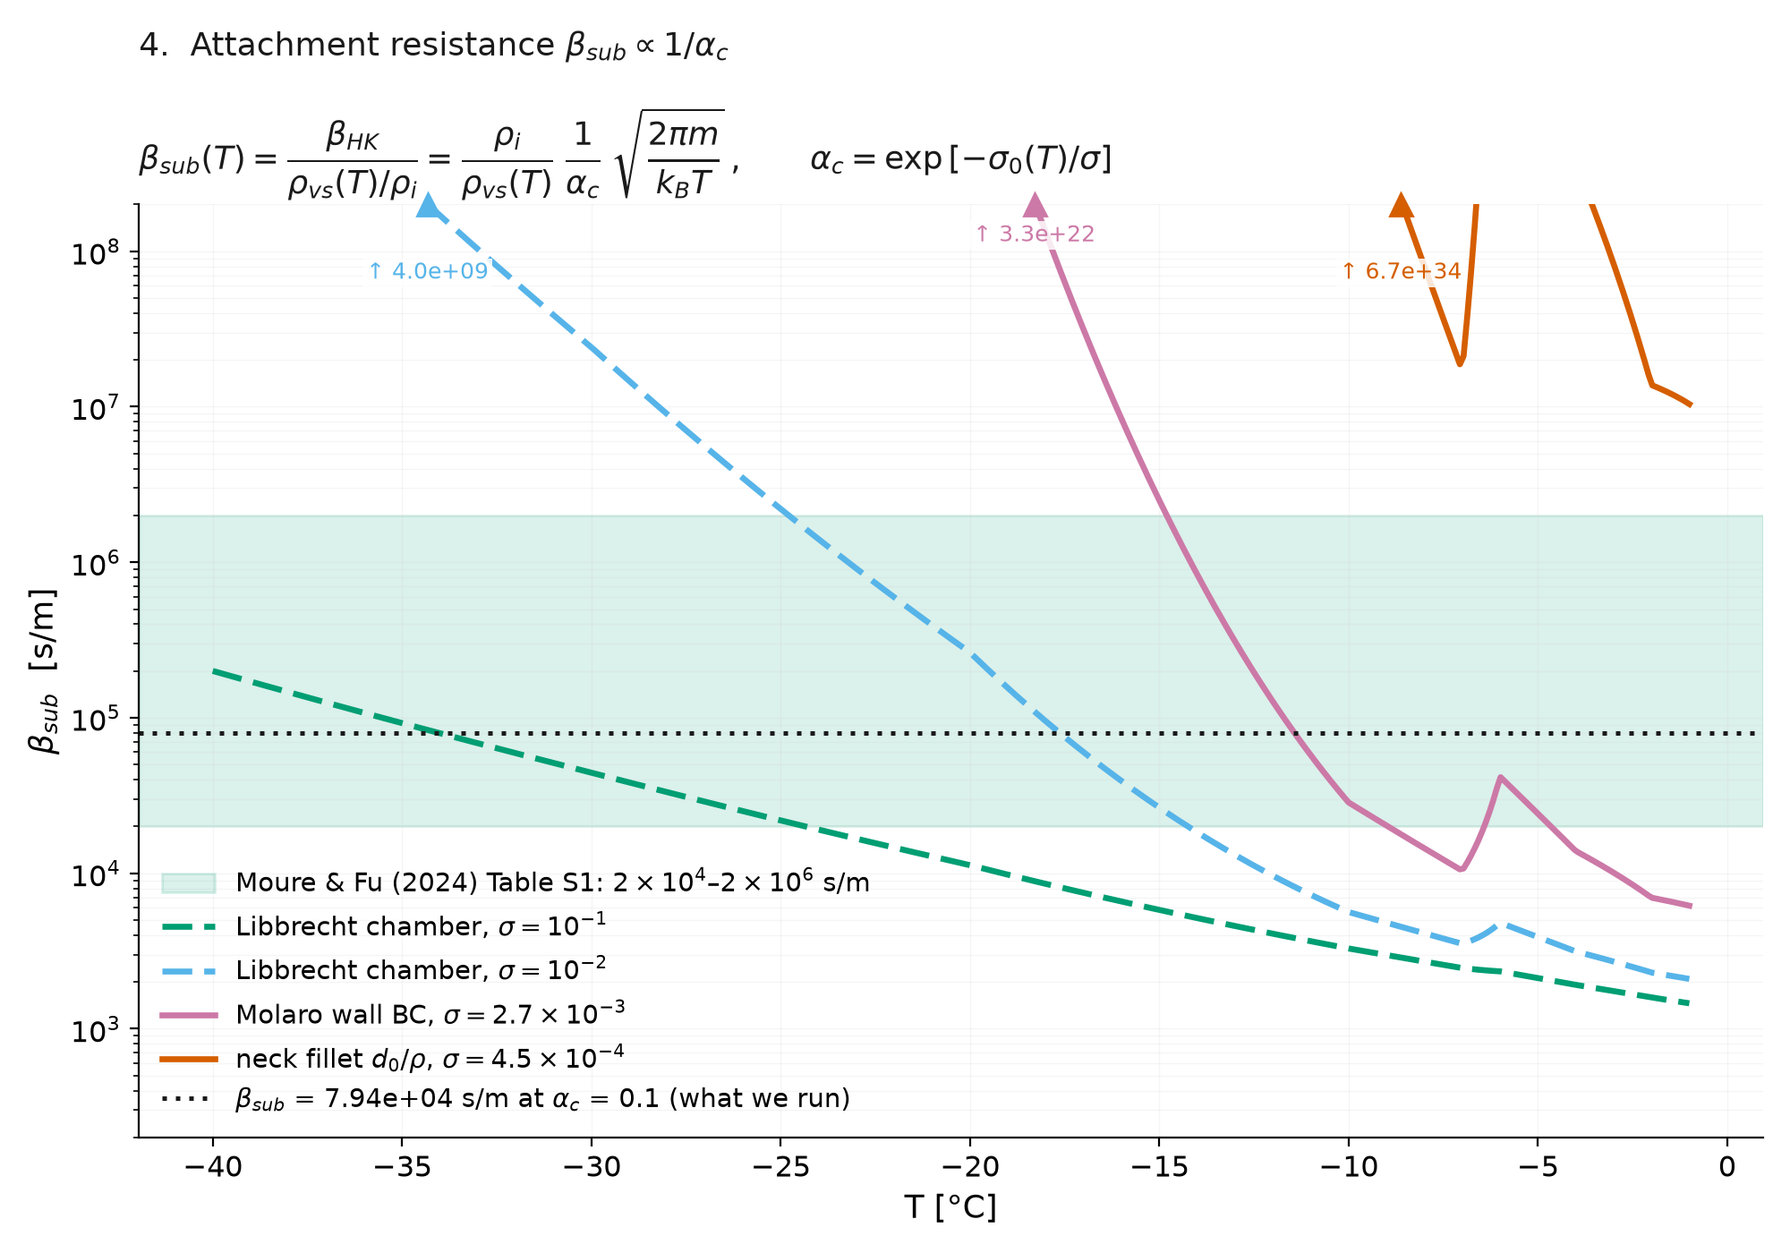
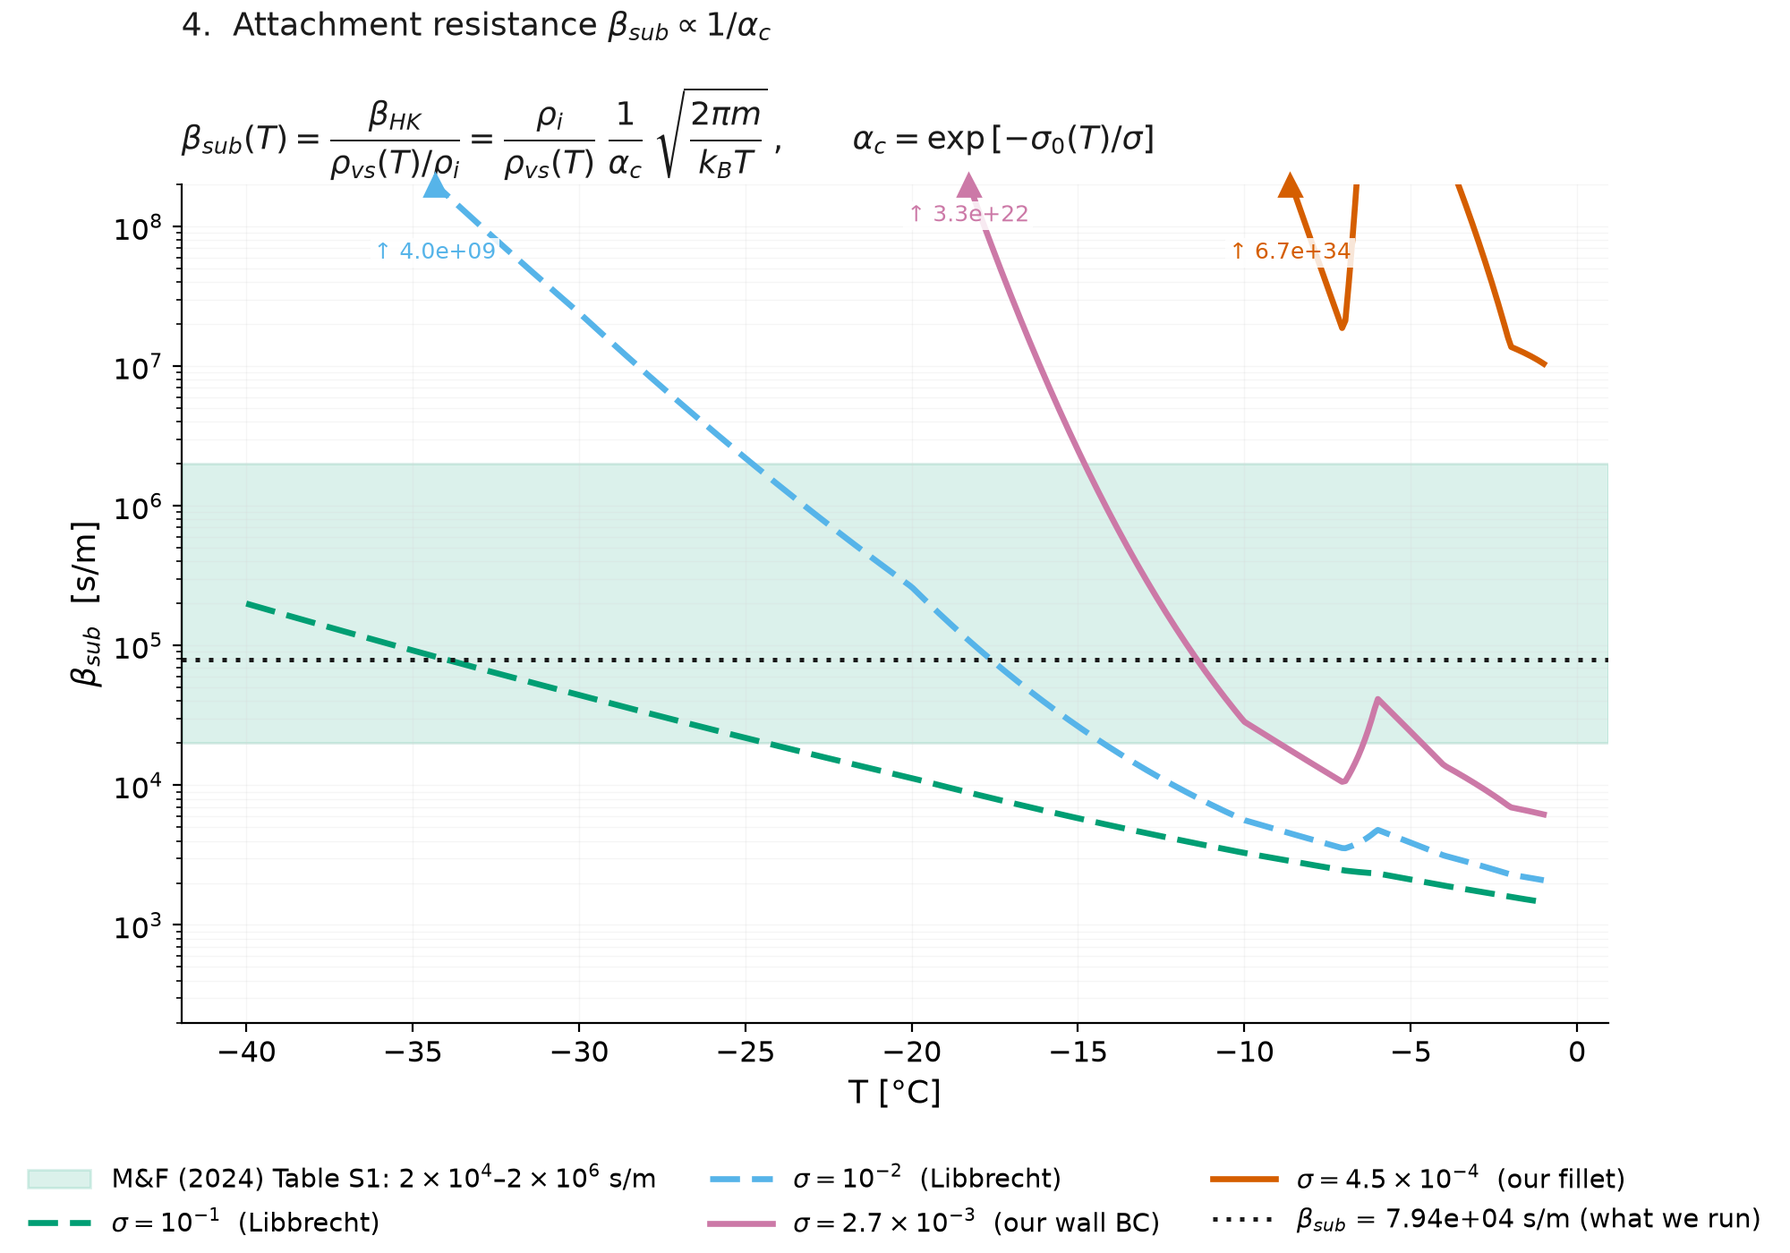
Fix the IguanaTeX snippets; move every legend under the axes
Two things Jackson hit.

The snippets would not generate. I had validated each block wrapped in
\[ ... \], assuming that is what IguanaTeX does; it is not. IguanaTeX
supplies \documentclass ... \begin{document} and drops the paste into the
body in TEXT mode, so `aligned` -- which needs an enclosing math mode --
failed on every block. Each block now carries its own \[ ... \] or uses
align*, and \gtrsim is gone because it lives in amssymb while IguanaTeX
loads only amsmath. The regression test now uses the exact wrapper from
Jackson's paste instead of my assumption, and all 13 blocks pass it.

The reserved-band legends from earlier today were worse than the problem
they solved: they cost 1.5-2 decades of axis on four panels and still
crowded the region labels. Legends now sit under the axes in 2-3 columns,
where they cannot cover anything, and the windows go back to the tight
zoom. Labels shortened to match -- the bound formulas they used to carry
are in docs/tex, which is where someone would cite them from anyway.

Layout switched to constrained_layout, which accounts for legends outside
the axes where tight_layout does not, and the overview is now three
standalone-widths across so those legends do not overflow into the
neighbouring column.

Claude-Session: https://claude.ai/code/session_01BVdmhQKeceS9YYRoWfp7Wf

diff --git a/projects/enceladus_DSM/preprocess/plot_libbrecht_constraints.py b/projects/enceladus_DSM/preprocess/plot_libbrecht_constraints.py
@@ -86,20 +86,22 @@ INK, MUTED, GRID = "#1a1a1a", "#5c5c5c", "#d8d8d8"
 
 # Colour per binding bound, shared by the fig5/fig6 shading.
 BOUND_COLOR = {"B-HEAT": C[0], "B-VAPOR": C[5], "B-KINETIC": C[1], "B-CURV": C[2]}
+# Short, because these ride in a legend under the axes. The formulas they
+# used to carry live in docs/tex/constraints_iguanatex.txt.
 BOUND_LABEL = {
-    "B-HEAT":    r"B-HEAT binds: $\epsilon\leq s\,D_{heat}\beta_{HK}$ (K&P 43a/b)",
-    "B-VAPOR":   r"B-VAPOR binds: $\epsilon\leq s\,D_v\beta_{HK}$ (K&P 43c)",
-    "B-KINETIC": r"B-KINETIC binds: $\epsilon\leq s\,d_0/(\beta_{sub}v_n)$ (K&P 45)",
-    "B-CURV":    r"B-CURV binds: $\epsilon\leq 0.05\,R_{ave}$ (geometric)",
+    "B-HEAT":    "B-HEAT binds (K&P 43a/b)",
+    "B-VAPOR":   "B-VAPOR binds (K&P 43c)",
+    "B-KINETIC": "B-KINETIC binds (K&P 45)",
+    "B-CURV":    "B-CURV binds (geometric)",
 }
 
 # The supersaturations in play. Value, colour, label, and whether it is a
 # condition WE impose or one LIBBRECHT measured at.
 SIGMA_CASES = [
-    (1.0e-1, C[2], "Libbrecht chamber, $\\sigma = 10^{-1}$", "lab"),
-    (1.0e-2, C[5], "Libbrecht chamber, $\\sigma = 10^{-2}$", "lab"),
-    (2.7e-3, C[3], "Molaro wall BC, $\\sigma = 2.7\\times10^{-3}$", "ours"),
-    (4.5e-4, C[1], "neck fillet $d_0/\\rho$, $\\sigma = 4.5\\times10^{-4}$", "ours"),
+    (1.0e-1, C[2], "$\\sigma = 10^{-1}$  (Libbrecht)", "lab"),
+    (1.0e-2, C[5], "$\\sigma = 10^{-2}$  (Libbrecht)", "lab"),
+    (2.7e-3, C[3], "$\\sigma = 2.7\\times10^{-3}$  (our wall BC)", "ours"),
+    (4.5e-4, C[1], "$\\sigma = 4.5\\times10^{-4}$  (our fillet)", "ours"),
 ]
 
 # a = (m/rho_ice)^(1/3): the molecular length already implied by the constants
@@ -115,7 +117,10 @@ ALPHA_CEIL = 1.0            # every impinging molecule sticks
 # FIGSIZE and OVERVIEW_SIZE keep the per-panel area roughly equal.
 FS_TITLE, FS_LABEL, FS_TICK, FS_LEG, FS_NOTE = 15, 13, 11.5, 10.5, 10
 FIGSIZE = (10.0, 7.0)
-OVERVIEW_SIZE = (24.0, 13.6)
+# 3 x FIGSIZE wide, so each overview panel gets the same area the standalone
+# does. Anything smaller and the legends -- which sit UNDER the axes -- either
+# overflow into the neighbouring column or squeeze the plot to nothing.
+OVERVIEW_SIZE = (3 * FIGSIZE[0], 2 * FIGSIZE[1] + 1.0)
 
 # -------------------------------------------------------------------------
 # The display window.
@@ -127,19 +132,14 @@ OVERVIEW_SIZE = (24.0, 13.6)
 # frame and the extreme it reaches is stated, so nothing is hidden; the full
 # numbers stay in libbrecht_constraints.csv and the study README.
 # -------------------------------------------------------------------------
-VIEW_ALPHA = (ce.ALPHA_LIT_LO * 1e-2, 3.0e1)      # band 1e-3..1e-1, +2 decades
-# alpha_c <= ALPHA_CEIL by definition, so everything above it is whitespace
-# no data can ever reach -- which is where panels 2 and 3 park their legends.
+VIEW_ALPHA = (ce.ALPHA_LIT_LO * 1e-2, 2.5)        # band 1e-3..1e-1, +2 decades
 MF_BETA_LO, MF_BETA_HI = 2.0e4, 2.0e6             # M&F (2024) Table S1
 VIEW_BETA = (MF_BETA_LO * 1e-2, MF_BETA_HI * 1e2)
 
 # Mesh window, in Nx. NX_USABLE is what we can actually run; the frame is
 # opened up ~2.3 decades above it so the molecular limit Lx/a stays visible.
 NX_USABLE = 1.0e4
-# The bottom decade and a half carries no data -- they are reserved so panel 6's
-# legend has somewhere to sit that is not on top of a curve. Panel 5's eps
-# window is the exact reciprocal, so its reserved band is at the top.
-VIEW_NX = (3.0e1, 1.0e6)
+VIEW_NX = (3.0e2, 1.0e6)
 
 
 def _mark_offscale(a, x, y, color, fmt="{:.1e}", row=0):
@@ -190,10 +190,16 @@ def _style(a, xlabel, ylabel, title, logy=True, title_size=FS_TITLE, pad=10):
     a.tick_params(labelsize=FS_TICK)
 
 
-def _legend(a, size=FS_LEG, **kw):
-    """Framed legend, for the panels where every corner has a curve in it."""
-    a.legend(fontsize=size, frameon=True, framealpha=0.93, facecolor="white",
-             edgecolor=GRID, **kw)
+def _legend(a, ncol=3, size=FS_LEG):
+    """Legend beneath the axes.
+
+    Four curves sweeping the full diagonal leave no corner free, and reserving
+    an empty band inside the frame costs the zoom that makes these panels
+    readable. Putting it outside is the only arrangement that covers nothing.
+    """
+    a.legend(fontsize=size, frameon=False, loc="upper center", ncol=ncol,
+             bbox_to_anchor=(0.5, -0.155), handlelength=2.4,
+             columnspacing=2.0, borderaxespad=0.0)
 
 
 def _ls(kind):
@@ -212,25 +218,25 @@ def panel_sigma0(a, T, ctx):
     # shared Tmax would leave that marker floating off the end of the curve.
     Tf = np.linspace(-40.0, -1.0e-4, 600)
     a.plot(Tf, [ce.sigma0(t) for t in Tf], lw=2.4, color=C[0],
-           label="$\\sigma_0(T)$ as coded (log-log interpolation in $|T|$)")
+           label="$\\sigma_0(T)$ as coded")
     a.plot(ce._SIG0_T[:9], ce._SIG0_S[:9], "o", ms=7, color=C[0],
            markerfacecolor="white", markeredgewidth=1.8, zorder=5,
-           label="Libbrecht (2017) table, 9 points in range")
+           label="Libbrecht (2017) table, 9 points")
     a.annotate("non-monotonic kink at $-6/-7$ °C\n(a digitisation artifact,\n"
                "not physics)", (-6.6, 6.6e-3), xytext=(-14.5, 3.0e-3),
                fontsize=FS_NOTE, color=C[1], ha="center", va="center",
                arrowprops=dict(arrowstyle="->", color=C[1], lw=1.1))
     # Upper left: the only corner with no curve, no legend and no arrow in it.
-    a.text(-39.4, 3.0e-1,
+    a.text(-39.4, 5.0e-1,
            "$\\sigma_0$ spans a factor 27 across this range.\n"
            "$\\alpha_c = \\exp(-\\sigma_0/\\sigma)$, so that factor\n"
            "lands in the EXPONENT.",
            fontsize=FS_NOTE, color=INK, ha="left", va="top")
     a.set_xlim(-41, 0.5)
-    a.set_ylim(2.0e-3, 4.5e-1)
+    a.set_ylim(2.0e-3, 6.0e-1)
     _style(a, "T [°C]", "$\\sigma_0$  (critical supersaturation) [-]",
            "1.  Libbrecht's data: $\\sigma_0(T)$")
-    a.legend(fontsize=FS_LEG, frameon=False, loc="upper right")
+    _legend(a, ncol=2)
 
 
 def panel_alpha_vs_sigma0(a, T, ctx):
@@ -245,12 +251,12 @@ def panel_alpha_vs_sigma0(a, T, ctx):
         a.plot(s0, y, lw=2.4, color=col, ls=_ls(kind), label=lbl)
         _mark_offscale(a, s0, y, col, row=i % 2)
     a.axhline(ALPHA_CEIL, lw=1.6, color=INK, alpha=0.7,
-              label="$\\alpha_c = 1$: every impinging molecule sticks")
+              label="$\\alpha_c = 1$ (physical ceiling)")
     # Where the table's own sigma0 values sit, so x carries physical marks.
     for Tm in (-2.0, -20.0, -40.0):
         s0m = ce.sigma0(Tm)
         a.axvline(s0m, lw=1.0, ls=(0, (1, 3)), color=MUTED, zorder=0)
-        a.annotate(f"$T$ = {Tm:.0f} °C", (s0m, ALPHA_CEIL * 0.6), rotation=90,
+        a.annotate(f"$T$ = {Tm:.0f} °C", (s0m, ALPHA_CEIL * 0.55), rotation=90,
                    fontsize=FS_NOTE, color=MUTED, ha="right", va="top", zorder=6,
                    bbox=dict(boxstyle="square,pad=0.15", fc="white", ec="none",
                              alpha=0.85))
@@ -258,8 +264,7 @@ def panel_alpha_vs_sigma0(a, T, ctx):
                fontsize=FS_NOTE, color=C[0], va="center")
     _style(a, "$\\sigma_0(T)$  [-]", "$\\alpha_c$  [-]",
            "2.  $\\alpha_c = \\exp(-\\sigma_0/\\sigma)$ against $\\sigma_0$")
-    _legend(a, size=FS_LEG - 0.5, loc="upper center", ncol=2,
-            bbox_to_anchor=(0.5, 1.0))
+    _legend(a, ncol=3)
 
 
 def panel_alpha_vs_T(a, T, ctx):
@@ -273,29 +278,26 @@ def panel_alpha_vs_T(a, T, ctx):
         a.plot(T, y, lw=2.4, color=col, ls=_ls(kind), label=lbl)
         _mark_offscale(a, T, y, col, row=i % 2)
     a.axhline(ALPHA_CEIL, lw=1.6, color=INK, alpha=0.7,
-              label="$\\alpha_c = 1$: every impinging molecule sticks")
+              label="$\\alpha_c = 1$ (physical ceiling)")
     a.axhline(ctx["alpha_run"], lw=1.8, ls=(0, (1, 2)), color=INK,
-              label=f"$\\alpha_c$ = {ctx['alpha_run']:g}, the constant we run")
+              label=f"$\\alpha_c$ = {ctx['alpha_run']:g} (what we run)")
     _style(a, "T [°C]", "$\\alpha_c$  [-]",
            "3.  $\\alpha_c(T)$: two decades down in $\\sigma$, "
            "thirty down in $\\alpha_c$")
-    _legend(a, size=FS_LEG - 0.5, loc="upper center", ncol=2,
-            bbox_to_anchor=(0.5, 1.0))
+    _legend(a, ncol=3)
 
 
 def panel_beta_vs_T(a, T, ctx):
     """4. beta_sub(T). The defining equation rides in the title, not the frame,
     so it cannot land on the legend or on a curve."""
     a.axhspan(MF_BETA_LO, MF_BETA_HI, color=C[2], alpha=0.14, zorder=0,
-              label="Moure & Fu (2024) Table S1: $2\\times10^4$–"
-                    "$2\\times10^6$ s/m")
+              label="M&F (2024) Table S1: $2\\times10^4$–$2\\times10^6$ s/m")
     a.set_ylim(*VIEW_BETA)
     for i, (sig, col, lbl, kind) in enumerate(SIGMA_CASES):
         a.plot(T, ctx["beta"][sig], lw=2.4, color=col, ls=_ls(kind), label=lbl)
         _mark_offscale(a, T, ctx["beta"][sig], col, row=i % 2)
     a.axhline(ctx["beta_run"], lw=1.8, ls=(0, (1, 2)), color=INK,
-              label=f"$\\beta_{{sub}}$ = {ctx['beta_run']:.2e} s/m at "
-                    f"$\\alpha_c$ = {ctx['alpha_run']:g} (what we run)")
+              label=f"$\\beta_{{sub}}$ = {ctx['beta_run']:.2e} s/m (what we run)")
     _style(a, "T [°C]", "$\\beta_{sub}$  [s/m]",
            "4.  Attachment resistance $\\beta_{sub} \\propto 1/\\alpha_c$\n\n"
            r"$\beta_{sub}(T)=\dfrac{\beta_{HK}}{\rho_{vs}(T)/\rho_i}"
@@ -303,28 +305,27 @@ def panel_beta_vs_T(a, T, ctx):
            r"\sqrt{\dfrac{2\pi m}{k_B T}}\,,\qquad"
            r"\alpha_c=\exp\left[-\sigma_0(T)/\sigma\right]$",
            title_size=13, pad=14)
-    a.legend(fontsize=FS_LEG, frameon=False, loc="lower left")
+    _legend(a, ncol=3)
 
 
 def panel_eps_vs_T(a, T, ctx):
     """5. eps(T) straight out of comp_eps.compute_eps, shaded by binding bound."""
     prim = ctx["primary_sigma"]
     a.set_ylim(*ctx["view_eps"])
-    _shade_binding(a, T, ctx["binding"][prim], y_frac=0.795)
+    _shade_binding(a, T, ctx["binding"][prim], y_frac=0.975)
     for i, (sig, col, lbl, kind) in enumerate(SIGMA_CASES):
         a.plot(T, ctx["eps"][sig], lw=3.4 if sig == prim else 2.4, color=col,
                ls=_ls(kind),
                label=lbl + ("  ← shaded" if sig == prim else ""))
         _mark_offscale(a, T, ctx["eps"][sig], col, row=i % 2)
     a.axhline(ctx["eps_usable"], lw=1.6, color=MUTED,
-              label=f"$\\epsilon$ = {ctx['eps_usable']*1e9:.0f} nm, the "
-                    f"$N_x = 10^4$ practical ceiling")
+              label=f"$N_x = 10^4$ ceiling ($\\epsilon$ = "
+                    f"{ctx['eps_usable']*1e9:.0f} nm)")
     a.axhline(ctx["eps_run"], lw=1.8, ls=(0, (1, 2)), color=INK,
-              label=f"$\\epsilon$ = {ctx['eps_run']*1e6:.3g} µm, the production run")
+              label=f"production run ($\\epsilon$ = {ctx['eps_run']*1e6:.3g} µm)")
     _style(a, "T [°C]", "$\\epsilon$  [m]",
            "5.  Interface width from the comp_eps.py bounds")
-    _legend(a, size=FS_LEG - 0.5, loc="upper center", ncol=2,
-            bbox_to_anchor=(0.5, 1.0))
+    _legend(a, ncol=3)
 
 
 def panel_Nx_vs_T(a, T, ctx):
@@ -337,14 +338,13 @@ def panel_Nx_vs_T(a, T, ctx):
                ls=_ls(kind), label=lbl)
         _mark_offscale(a, T, ctx["Nx"][sig], col, fmt="{:.0e}", row=i % 2)
     a.axhline(NX_USABLE, lw=1.6, color=MUTED,
-              label="$N_x = 10^4$ — the practical ceiling")
+              label="$N_x = 10^4$ practical ceiling")
     a.axhline(ctx["Nx_run"], lw=1.8, ls=(0, (1, 2)), color=INK,
-              label=f"$N_x$ = {ctx['Nx_run']}, the production mesh "
-                    f"({ctx['nodes_run']/1e6:.1f} M nodes in 2D)")
+              label=f"production mesh, $N_x$ = {ctx['Nx_run']} "
+                    f"({ctx['nodes_run']/1e6:.1f} M nodes)")
     _style(a, "T [°C]", "$N_x$  [nodes across $L_x$]",
            "6.  The mesh Libbrecht's $\\alpha_c$ demands")
-    _legend(a, size=FS_LEG - 0.5, loc="lower center", ncol=2,
-            bbox_to_anchor=(0.5, 0.0))
+    _legend(a, ncol=3)
 
 
 def _shade_binding(a, T, binding, y_frac=0.975):
@@ -457,23 +457,21 @@ def main():
 
     # --- standalone, slide-sized figures ---------------------------------
     for name, fn in PANELS:
-        fig, a = plt.subplots(figsize=FIGSIZE)
+        fig, a = plt.subplots(figsize=FIGSIZE, layout="constrained")
         fn(a, T, ctx)
-        fig.tight_layout()
         fig.savefig(args.out / f"{name}.png", dpi=200)
         plt.close(fig)
         print(f"plot -> {args.out / (name + '.png')}")
 
     # --- one-slide overview ----------------------------------------------
-    fig, axes = plt.subplots(2, 3, figsize=OVERVIEW_SIZE)
+    fig, axes = plt.subplots(2, 3, figsize=OVERVIEW_SIZE, layout="constrained")
     fig.suptitle("Libbrecht (2017) $\\sigma_0(T)$ as the source of $\\alpha_c$: "
                  f"the chain down to $\\epsilon$ and the mesh — {args.label}, "
                  f"measured $v_n$ = {args.vn:.3g} m/s",
                  fontsize=19, color=INK)
     for ax, (_n, fn) in zip(axes.ravel(), PANELS):
         fn(ax, T, ctx)
-    fig.tight_layout(rect=(0, 0, 1, 0.965))
-    fig.savefig(args.out / "fig0_overview.png", dpi=170)
+    fig.savefig(args.out / "fig0_overview.png", dpi=140)
     plt.close(fig)
     print(f"plot -> {args.out / 'fig0_overview.png'}")
 

diff --git a/projects/enceladus_DSM/docs/tex/README.md b/projects/enceladus_DSM/docs/tex/README.md
@@ -8,11 +8,15 @@ change with it.
 
 **`constraints_iguanatex.txt`** — 13 numbered snippets, one constraint each,
 separated by dashed rules. Copy one block into IguanaTeX's *New LaTeX display*
-box and hit Generate. Each block is self-contained, uses only `amsmath` /
-`amssymb` (already in IguanaTeX's default preamble), and every one is
-regression-tested to compile inside `\[ ... \]`, which is what IguanaTeX wraps
-it in. The header lines are `%`-commented, so sweeping one up in a sloppy copy
-is harmless.
+box and hit Generate.
+
+IguanaTeX supplies `\documentclass ... \begin{document}` and drops your text
+into the body **in text mode** — it does *not* wrap it in maths. So each block
+carries its own `\[ ... \]` or `align*`. Paste the block as-is; don't add `$`
+or `\[` around it, and don't paste a preamble. `amsmath` is the only package
+needed (nothing here uses `amssymb`), which is what IguanaTeX loads by default.
+The header lines are `%`-commented, so sweeping one up in a sloppy copy is
+harmless.
 
 Blocks: [1] the four ε bounds on one slide · [2] ε as their minimum ·
 [3] the mesh rule · [4] the thin-interface parameter δ · [5] β_HK vs β_sub ·
@@ -42,6 +46,8 @@ cross-references at all, by design.
 
 ## Checking the snippets still compile
 
+Against the exact wrapper IguanaTeX produces — text mode, `amsmath` only:
+
 ```bash
 python3 - <<'EOF'
 import re, pathlib, subprocess, tempfile, os
@@ -49,8 +55,9 @@ txt = pathlib.Path("docs/tex/constraints_iguanatex.txt").read_text()
 blocks = re.findall(r"^-{80}\n(.*?)^-{80}$", txt, flags=re.S | re.M)
 d = tempfile.mkdtemp(); bad = []
 for i, b in enumerate(blocks, 1):
-    src = ("\\documentclass{article}\n\\usepackage{amsmath,amssymb,amsfonts}\n"
-           "\\begin{document}\n\\[" + b.strip() + "\\]\n\\end{document}\n")
+    src = ("\\documentclass{article}\n\\usepackage{amsmath}\n"
+           "\\pagestyle{empty}\n\\begin{document}\n\n"
+           + b.strip("\n") + "\n\n\\end{document}\n")
     f = os.path.join(d, f"b{i}.tex"); open(f, "w").write(src)
     r = subprocess.run(["pdflatex", "-interaction=nonstopmode", "-halt-on-error",
                         f"-output-directory={d}", f], capture_output=True, text=True)

diff --git a/projects/enceladus_DSM/.claude/ACTIVITY_LOG.md b/projects/enceladus_DSM/.claude/ACTIVITY_LOG.md
@@ -1,3 +1,30 @@
+## 2026-09-02 (end of day) — Legends outside; IguanaTeX snippets actually work
+
+- **The IguanaTeX snippets did not generate.** I had validated every block
+  wrapped in \[ ... \], assuming that is what IguanaTeX does. It is not:
+  IguanaTeX supplies \documentclass ... \begin{document} and drops the paste
+  into the body in TEXT mode. `aligned` needs an enclosing math mode, so every
+  block failed. Fixed: `aligned` -> `align*`, and every bare-math block now
+  carries its own \[ ... \]. Also dropped \gtrsim (block 13) -- it is amssymb
+  and IguanaTeX's preamble carries only amsmath. All 13 blocks now compile
+  against the EXACT wrapper Jackson pasted, and the test in docs/tex/README.md
+  uses that wrapper rather than my earlier assumption.
+- Legends moved OUT from under the curves to beneath the axes, 2-3 columns,
+  every panel. The reserved-band trick from this morning was worse than the
+  problem: it cost 1.5-2 decades of axis on panels 2/3/5/6 and still crowded
+  the region labels. Windows reverted to the tight zoom (alpha_c to 2.5,
+  Nx to [3e2, 1e6]).
+- Legend labels shortened: "Libbrecht chamber, sigma = 1e-1" -> "sigma = 1e-1
+  (Libbrecht)", the bound formulas dropped to "B-KINETIC binds (K&P 45)" (the
+  formulas live in docs/tex now), and the reference lines to "production run",
+  "Nx = 1e4 practical ceiling" and so on.
+- Layout switched to constrained_layout, which accounts for legends outside the
+  axes; tight_layout does not. The overview is now 3 x FIGSIZE wide (30 x 15)
+  so each panel gets the standalone's area -- at 24 in the outside legends
+  overflowed into the neighbouring column.
+
+---
+
 ## 2026-09-02 (later still) — Slide-scale type; legends off the curves
 
 - Jackson: legends in panels 5 and 6 were covering curves, panel 4's equation

diff --git a/projects/enceladus_DSM/studies/libbrecht_kinetics/README.md b/projects/enceladus_DSM/studies/libbrecht_kinetics/README.md
@@ -39,15 +39,14 @@ from what the sizer does.
 
 **Axis windows.** Plotted full-range these quantities span sixty decades and
 the usable band is a hairline, so every axis is clipped to the *literature*
-band opened up by two decades on each side — α_c to [1e-5, 30], β_sub to
-[2e2, 2e8] around M&F's [2e4, 2e6], and N_x to [3e1, 1e6] around the
+band opened up by two decades on each side — α_c to [1e-5, 2.5], β_sub to
+[2e2, 2e8] around M&F's [2e4, 2e6], and N_x to [3e2, 1e6] around the
 N_x = 10⁴ practical ceiling. Panel 5's ε window is the exact reciprocal of
 panel 6's N_x window, so the two read against each other.
 
-Each of panels 2, 3, 5 and 6 reserves a band that *no data can reach* and puts
-its legend there, rather than laying it over the curves: above α_c = 1 in
-panels 2–3 (every impinging molecule sticks — nothing is above it), above the
-largest resolvable ε in panel 5, and below the smallest N_x in panel 6.
+Legends sit **under** the axes, not inside them. Four curves sweeping the full
+diagonal leave no free corner, and reserving an empty band inside the frame
+costs the zoom that makes these panels readable in the first place.
 
 Where a curve leaves the frame it is marked on the edge with the extreme it
 reaches, so nothing is hidden; the full range is in
